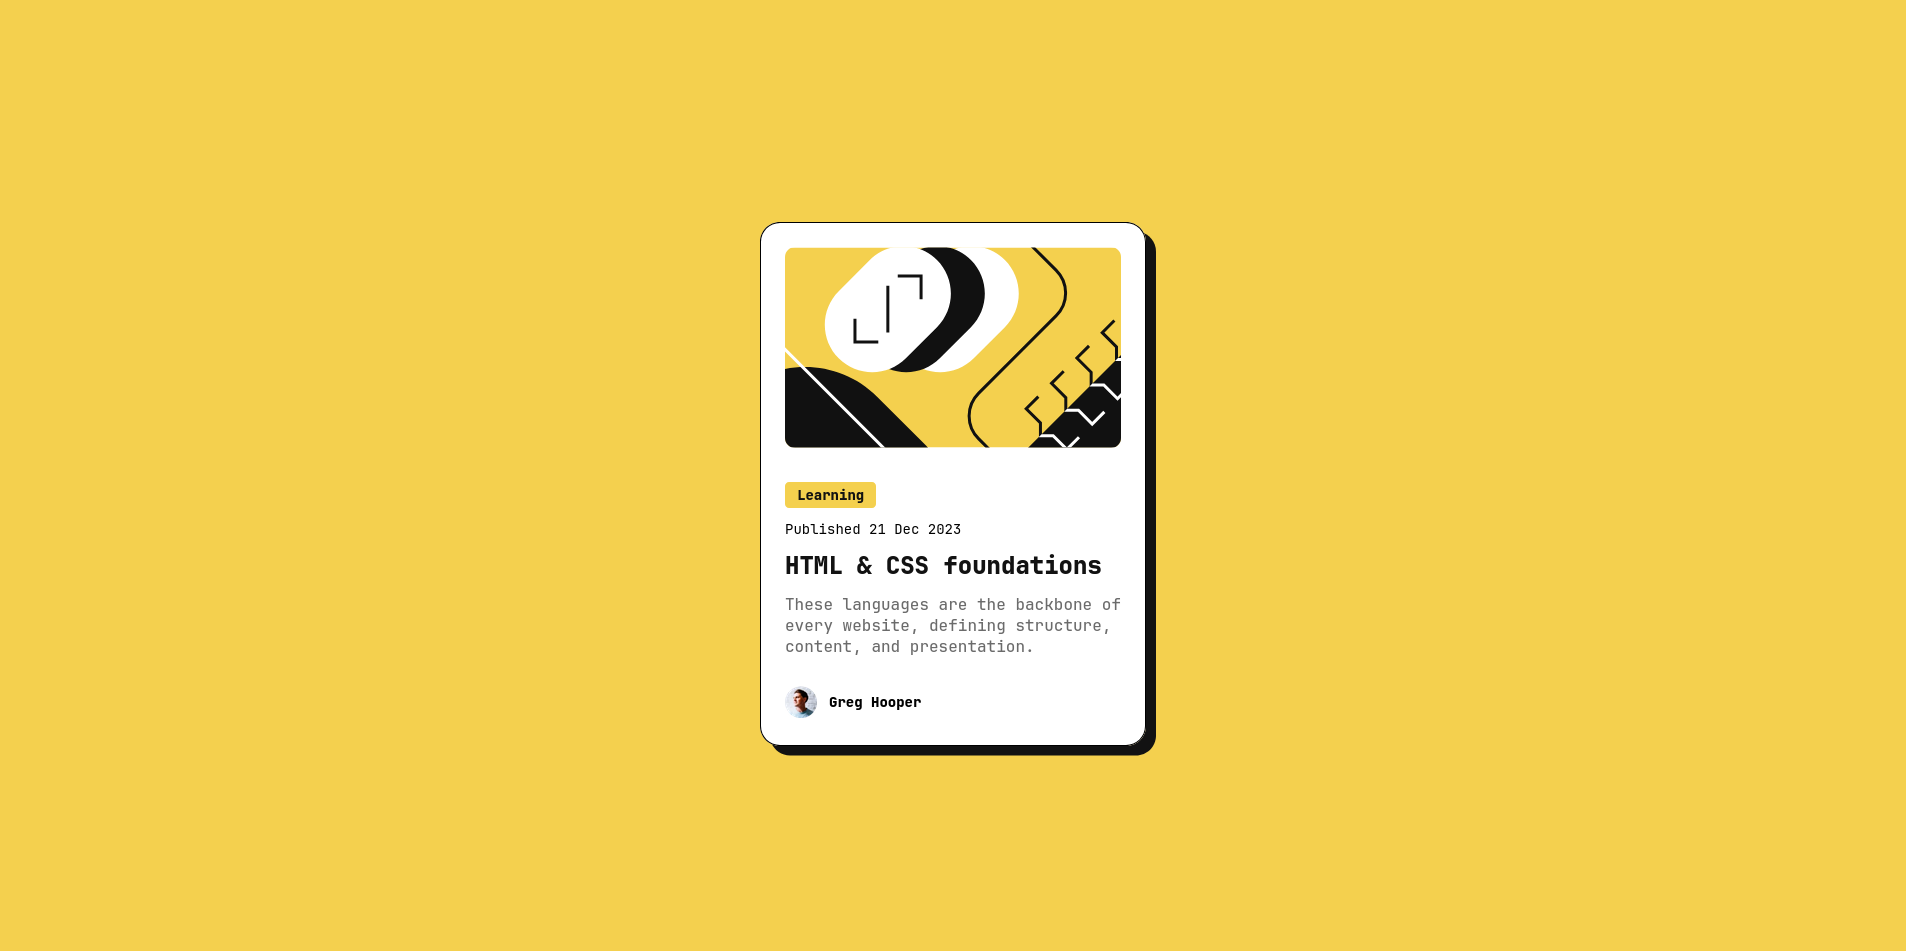
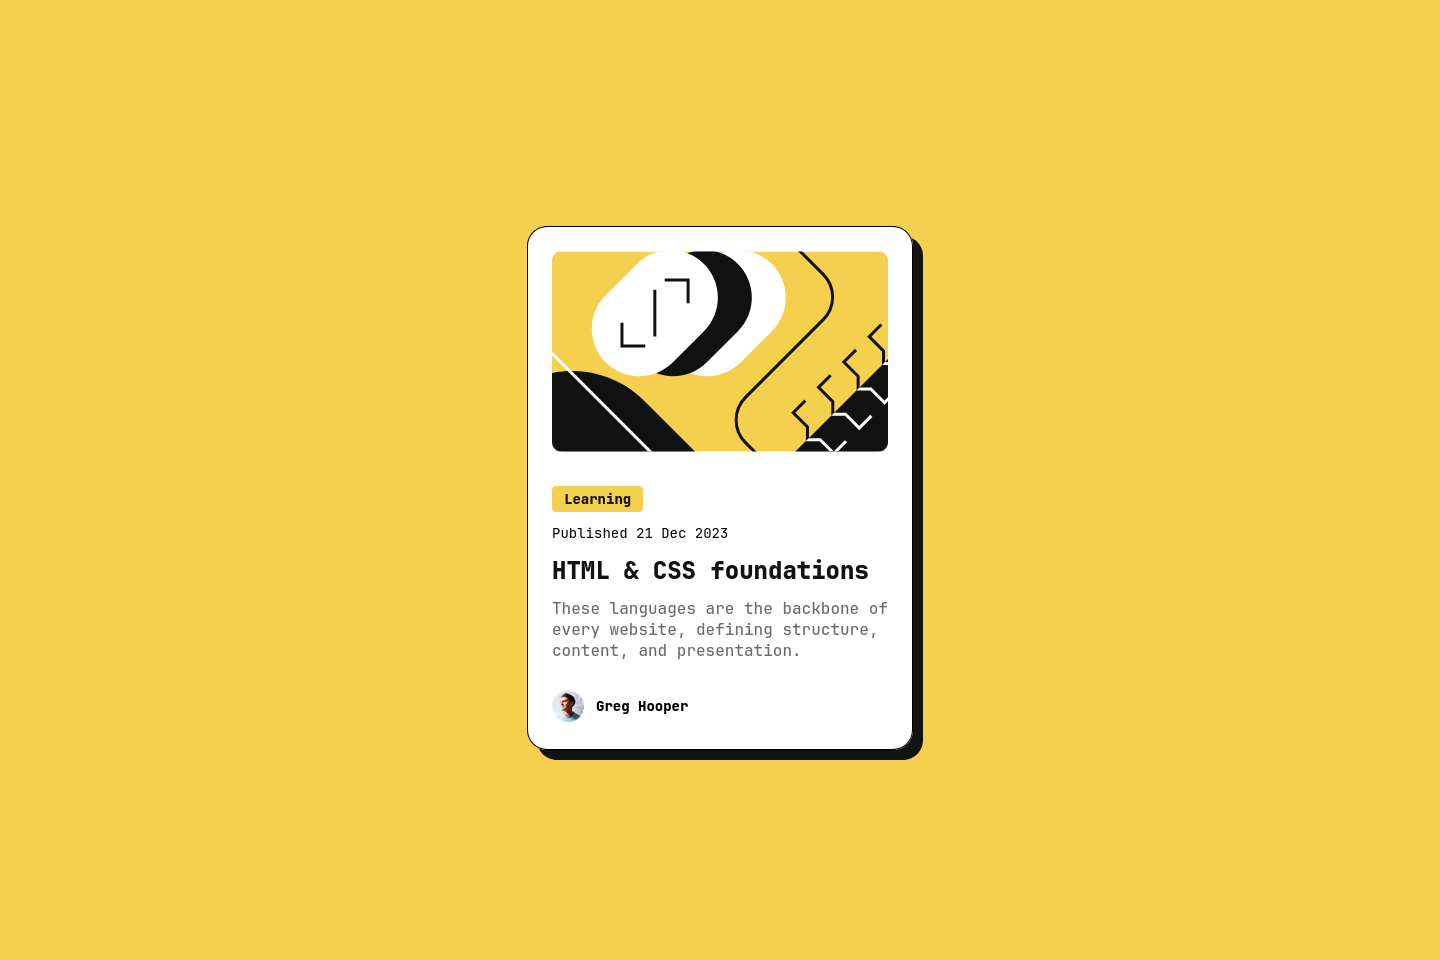
agrego previews nuevas y nuevo proyecto

Changed region(s): [[0.3438, 0.2135, 0.6562, 0.7928]]

diff --git a/index.html b/index.html
@@ -21,10 +21,7 @@
 			<h1 class="title">My solutions for Frontend Mentor Challenges</h1>
 			<div class="container">
 				<div class="divProyecto">
-					<a href="https://manugolem.github.io/qr-code-component/" target="_blank"><img src="images/qr-preview.png" class="img" /></a>
-				</div>
-				<div class="divProyecto">
-					<a href="https://manugolem.github.io/blog-preview-card/" target="_blank"><img src="images/blog-preview.png" class="img" /></a>
+					<a href="https://manugolem.github.io/time-tracking-profile/" target="_blank"><img src="images/time-preview.png" class="img" /></a>
 				</div>
 				<div class="divProyecto">
 					<a href="https://manugolem.github.io/social-links-profile/" target="_blank"><img src="images/links-preview.png" class="img" /></a>
@@ -34,6 +31,12 @@
 				</div>
 				<div class="divProyecto">
 					<a href="https://manugolem.github.io/huddle-landing-page/" target="_blank"><img src="images/huddle-preview.png" class="img" /></a>
+				</div>
+				<div class="divProyecto">
+					<a href="https://manugolem.github.io/blog-preview-card/" target="_blank"><img src="images/blog-preview.png" class="img" /></a>
+				</div>
+				<div class="divProyecto">
+					<a href="https://manugolem.github.io/qr-code-component/" target="_blank"><img src="images/qr-preview.png" class="img" /></a>
 				</div>
 			</div>
 		</main>

diff --git a/css/style.css b/css/style.css
@@ -50,13 +50,14 @@ li{
     gap:4rem;
     flex-wrap: wrap;
     margin-bottom: 4rem;
+    margin-top:2rem;
 }
 .divProyecto{
-    width: 40rem;
+    width: 30rem;
     transition: all 0.4s ease-in-out;
 }
 .divProyecto:hover{
-    width: 42rem;
+    width: 32rem;
 }
 .name{
     margin:0.2rem;
@@ -70,12 +71,12 @@ li{
     margin:1rem;
 }
 .img{
-    width: 40rem;
+    width: 30rem;
     border-radius: 10px;
     transition: all 0.4s ease-in-out;
 }
 .img:hover{
     border:4px solid var(--verde);
     cursor: pointer;
-    width: 42rem;
+    width: 32rem;
 }
